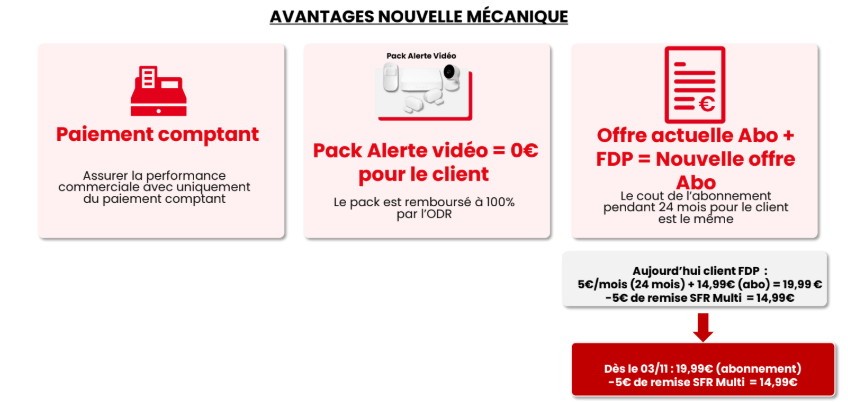
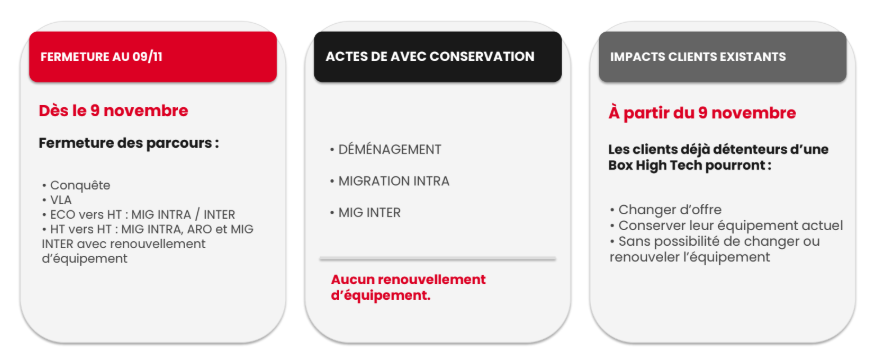
Point business : FIXE VR, dates Match, titres Actus plus visibles
Claude-Session: https://claude.ai/code/session_01AUV1yuJpz3fVwZUCn4ViF7

diff --git a/scripts/point-business/build.js b/scripts/point-business/build.js
@@ -71,13 +71,13 @@ s.addNotes('Pour modifier : touche un texte et écris. Les graphiques se modifie
 // ---- 2. Actus & rappel (visuels SFR tels quels)
 s = pres.addSlide({ masterName: 'Page' });
 s.addText('ACTUS & RAPPEL', { placeholder: 'titre' });
-const actuTitle = (t, y, h) => s.addText(t, { x: 0.4, y, w: 6.7, h, fontFace: 'Calibri', fontSize: 17, bold: true, color: WHITE, align: 'left', valign: 'middle', margin: 0, isTextBox: true });
+const actuTitle = (t, y, h) => s.addText(t, { x: 0.4, y, w: 6.7, h, fontFace: 'Calibri', fontSize: 22, bold: true, color: GOLD2, align: 'left', valign: 'middle', margin: 0, isTextBox: true });
 const actuImg = (f, y, w, h) => { const x = (W - w) / 2; s.addShape(pres.shapes.RECTANGLE, { x: x - 0.07, y: y - 0.07, w: w + 0.14, h: h + 0.14, fill: { color: GOLD }, line: { color: GOLD, width: 0 }, objectName: 'Cadre ' + f }); s.addImage({ path: A(f), x, y, w, h, objectName: f }); };
-actuTitle('NOUVEAU - MAISON SECURISEE – DES LE 03-11-2026', 2.15, 0.5);
-actuImg('actu_maison_1.png', 2.8, 6.3, 6.3 * 397 / 875);
-actuImg('actu_maison_2.png', 5.85, 6.3, 6.3 * 358 / 876);
-actuTitle('NOUVEAU -  FIN DE COMMERCIALISATION BOX + HIGH TECH – DES LE 09-11-2026', 8.55, 0.85);
-actuImg('actu_fin_box.png', 9.6, 6.3, 6.3 * 402 / 848);
+actuTitle('NOUVEAU - MAISON SECURISEE – DES LE 03-11-2026', 2.05, 0.65);
+actuImg('actu_maison_1.png', 2.85, 6.3, 6.3 * 397 / 875);
+actuImg('actu_maison_2.png', 5.9, 6.3, 6.3 * 402 / 848);
+actuTitle('NOUVEAU -  FIN DE COMMERCIALISATION BOX + HIGH TECH – DES LE 09-11-2026', 9.05, 1.0);
+actuImg('actu_fin_box.png', 10.2, 6.3, 6.3 * 358 / 876);
 
 // ---- 3. R/O (2 tableaux empilés pour rester lisibles sur téléphone)
 s = pres.addSlide({ masterName: 'Page' });

diff --git a/CLAUDE.md b/CLAUDE.md
@@ -171,3 +171,4 @@
 - 23/10/2026 : EXCEPTION INDIVIDUELLE BRUNO (Langon), OCTOBRE 2026 SEULEMENT (demandé par Julien : arrivé en cours de mois, pas le temps de faire des ventes raccordées) : `gridException` (appelée par `gridFor`, reconnaît le prénom BRUNO non responsable ; ne s'applique que si le mois du payplan contient « octobre 2026 ») = bloc 1 « R/O Fixe conquête VV + R/O TCS » (sans la condition VR) et bloc 2 « Fixe VV » (objectif `CONQUETE FIXE VV`) à la place de « Fixe VR ». Les appels de `payplanPoints` passent maintenant la personne en dernier paramètre (nécessaire pour l'exception). En novembre : l'exception s'éteint toute seule (le payplan change de mois) ; la retirer du code si on veut nettoyer.
 
 - 26/10/2026 : POINT BUSINESS au 24/10 refait (même format ; Julien envoie un .pptx déjà rempli de captures : les images de l'EMF/PNG sont extraites du fichier, `soffice` → PDF → `pdftoppm` pour lire l'EMF de R/O, les nombres du tableau R/O sont aussi lisibles par `strings -el`). Nouveautés : page Actus = 3 visuels SFR empilés avec 2 titres (Maison sécurisée dès le 03/11 ; fin de commercialisation Box + High Tech dès le 09/11) = `assets/actu_maison_1/2.png`, `actu_fin_box.png` (anciens visuels `assets/` inutilisés) ; en-tête de colonne R/O « 22 » recopié tel quel (avant « FIXE VR ») ; goodays 18 lignes, TCS vendeurs 17 lignes (note placée plus bas, `y: 10.75`) ; axe du graphique Match = max + 1. Incohérence signalée : le tableau Match dit toujours « du 14 au 17 octobre » alors que les quantités ont changé (Dylan 9).
+- 26/10/2026 (suite) : Point business 24/10 corrigé à la demande de Julien : colonne R/O « FIXE VR » (et non « 22 »), « Quantité Google du 14 au 24 octobre 2026 » (tableau Match ; le titre « du 16 au 31 » est resté tel quel), titres de la page Actus en doré 22 pt. Attention à l'ordre des images dans un .pptx de Julien : lire les positions (`<a:off y>`) et pas l'ordre des fichiers `imageN`.
